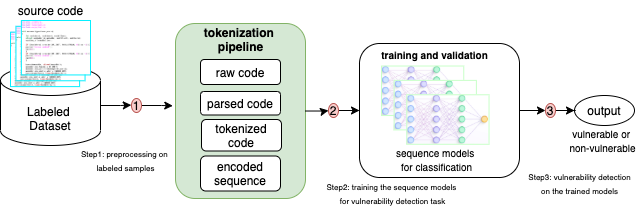
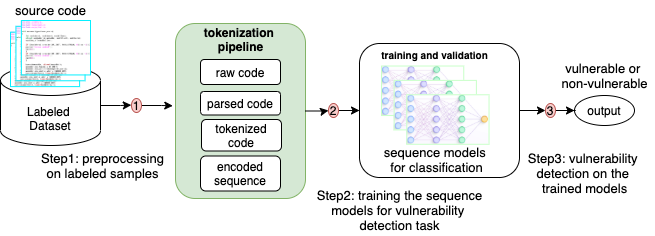
fixed object call and improved framework fig quality

Changed region(s): [[0.0, 0.0282, 0.9953, 0.9859], [0.8398, 0.8732, 0.9642, 0.9296], [0.8398, 0.2535, 0.9953, 0.3099]]

diff --git a/extractor/extract.py b/extractor/extract.py
@@ -301,7 +301,7 @@ class Extractor:
 
     def run_extractor(self):
         """Add new projects to the database"""
-        status_of_all = ext.iterate_projects()
+        status_of_all = self.iterate_projects()
 
         if status_of_all:
             print("=" * 50)
@@ -318,7 +318,7 @@ class Extractor:
         self.db.cursor.close()
 
         # total time elapsed
-        time_elapsed = time.time() - ext.start_time
+        time_elapsed = time.time() - self.start_time
         print("\n" + "="*50)
         print(f"Total time elapsed: {format_timespan(time_elapsed)}")
         print("="*50)

diff --git a/extractor/analyzers.py b/extractor/analyzers.py
@@ -154,6 +154,7 @@ class Analyzers:
             df = self.correct_label(df)
             # adding context since cppcheck does not report statement,
             # index starts from zero, therefore row.line-1
+            df['context'] = ''
             df['context'] = df.apply(
                 lambda row: self.get_statement(file, row.line-1), axis=1)
         finally:

diff --git a/data/README.md b/data/README.md
@@ -1,18 +1,20 @@
-# Dataset Description:
+# Dataset Description
 
-## IoTvulCode dataset:
+## IoTvulCode dataset
 
 The `IoTvulCode` dataset is a collection of vulnerable codes from various Internet of Things (IoT) platforms. In the current version of the extracted dataset, there are 1,014,548 statements (948,996 benign and 65,052 vulnerable samples) and 548,089 functions (481,390 benign and 66,699 vulnerable samples). We have collected the vulnerable data from the following IoT platforms.
 
+### IoT Specific Projects
+
 | Project    | version   | URL                                   |
-| ---------- | --------- | ------------------------------------- | --- |
+| ---------- | --------- | ------------------------------------- |
 | linux-rpi  | 6.1.y     | www.raspberrypi.com/software/         |
 | ARMmbed    | 6.17.0    | https://os.mbed.com/mbed-os/          |
 | FreeRTOS   | 202212.01 | www.freertos.org/a00104.html          |
 | RIOT       | 2023.07   | https://github.com/RIOT-OS/RIOT       |
 | contiki    | 2.4       | https://github.com/contiki-os/contiki |
 | gnucobol   | 3.2       | https://gnucobol.sourceforge.io/      |
-| mbed-os    | 6.17.0    | https://github.com/ARMmbed/mbed-os    | ˙   |
+| mbed-os    | 6.17.0    | https://github.com/ARMmbed/mbed-os    |
 | miropython | 1.12.0    | https://micropython.org/              |
 | mosquito   | 2.0.18    | https://github.com/eclipse/mosquitto  |
 | openwrt    | 23.05.2   | https://github.com/openwrt/openwrt    |
@@ -20,7 +22,7 @@ The `IoTvulCode` dataset is a collection of vulnerable codes from various Intern
 Among all extracted projects, `linux-rpi` has the most recorded entries with 816,672 total statements and 456,380 functions, which is followed by `ARMmbed` with 43,782 statements and 26,095 functions. Of course, the severity of the project can be seen in the size of the vulnerability and weakness samples present in the project. However, `linux-rpi` being the biggest project in size in the list can tend to hold a higher number of vulnerable samples. The SQLite database file has three tables, namely `project` for project-level information, `statement` for statement-level information, and
 `function` for function-level information.
 
-## Convert SQLite to CSV files:
+## Convert SQLite to CSV files
 
 To obtain the necessary .csv files for analysis, run the provided script on the original `IoTvulCode.db` file, accessible on [zenodo](https://zenodo.org/uploads/10203899) (with DOI:10.5281/zenodo.10203899).
 Utilize the script `db2csv.py` for the conversion of the SQLite3 database into CSV files. The script can be executed with the following command:
